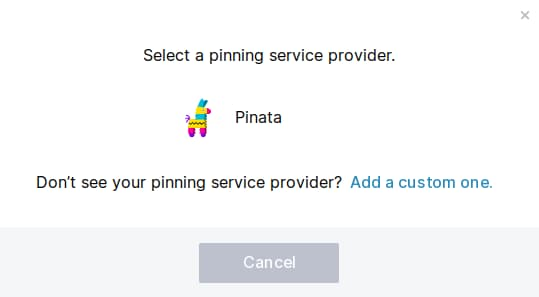
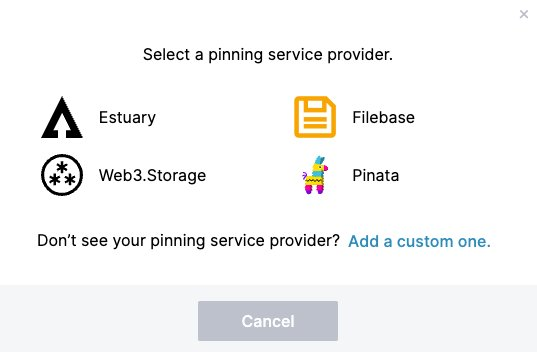
Enhancements to the IPFS Pinning Services Documentation (#1638)

diff --git a/docs/how-to/work-with-pinning-services.md b/docs/how-to/work-with-pinning-services.md
@@ -15,11 +15,19 @@ If you've got just one local IPFS node that's always running, local pinning may 
 - You don't have all the disk space you need on your local node.
 - You run more than one IPFS node, and would like to use one of them as a "personal pinning service" as your preferred location for permanent storage.
 
-There are a number of commercial pinning services that make it easy for you to purchase pinning capacity for your important files, some of which include Pinata, Temporal, Crust, Infura, and others. Each of these third-party services has its own unique interface for pinning files and managing those pins; this could include a GUI, an API, CLI commands, or other tooling.
+Third-party pinning services allow you to purchase pinning capacity for important data. Each service has its own approach to pinning data and managing pins, so users should do their research to ensure that the service meets their particular needs. Service providers include, but are not limited to:
+
+- [Pinata](https://pinata.cloud/)
+- [Filebase](https://filebase.com/)
+- [Temporal](https://temporal.cloud/)
+- [Crust](https://crust.network/)
+- [Infura](https://infura.io/)
 
 However, you don't need to learn new commands or tools if your pinning service of choice supports the vendor-agnostic [IPFS Pinning Service API](https://ipfs.github.io/pinning-services-api-spec/) specification. Those services are supported within IPFS itself through the command line: `ipfs pin remote --help`.
 
-As of January 2021, [Pinata](https://pinata.cloud/) supports the [IPFS Pinning Service API endpoint](https://pinata.cloud/documentation#PinningServicesAPI), with more pinning services on the way! [Learn how to create your own →](#create-your-own-pinning-service)
+As of June 2023, [Filebase](https://filebase.com) and [Pinata](https://pinata.cloud/) support the [IPFS Pinning Service API endpoint](https://github.com/ipfs/pinning-services-api-spec).
+
+You can also [create your own pinning service](#create-your-own-pinning-service).
 
 ## Use an existing pinning service
 
@@ -53,11 +61,22 @@ In the next screen, you’ll be asked for a few other details:
 - A **nickname** for this service. This can be helpful if, for example, you want to add two accounts from the same service.
 - The URL for your service's **API endpoint**.
   _Note: This field only appears if you've selected a custom pinning service!_
-- Your **secret access token**. This is the unique token provided to you by the pinning service — check its documentation for more info.
-  _To illustrate, example below shows which value should be copied from [pinata.cloud/keys](https://pinata.cloud/keys)_
-  > ![Pinata secret access token](./images/work-with-pinning-services/add-service-pinata-token.jpg)
+- You **secret access token**: The unique token provided to you by the pinning service — see the specific pinning service documentation for more info.
 
-After you hit **Save**, you’ll see your new pinning service added to the **Pinning Services** section of your **Settings** screen.
+##### Pinata example
+
+Consider the following example, which illustrates which values from [pinata.cloud/keys] are copied into the Pinata pinning service UI:
+
+![Pinata secret access token](./images/work-with-pinning-services/add-service-pinata-token.jpg)
+
+##### Filebase example
+
+Consider the following example, which demostrates the process for Filebase using
+[console.filebase.com/keys](https://console.filebase.com/keys).
+
+![Filebase secret access token](./images/work-with-pinning-services/add-service-filebase-token.png)
+
+After you click **Save**, your new pinning service is added to the **Pinning Services** section of your **Settings** screen.
 
 > ![Desktop/Web UI Settings screen with a new pinning service added](./images/work-with-pinning-services/added-service.jpg)
 
@@ -129,3 +148,4 @@ You may also wish to read continuing details on how the API is evolving in the [
 :::
 
 If you'd like to make your custom pinning service available to every IPFS user, we welcome your submissions. Once you're ready to open the doors to the public, make a PR against the [IPFS Web UI GitHub repo](https://github.com/ipfs-shipyard/ipfs-webui) in order to add it to the default list of pinning services that are displayed in the Desktop/Web UI Settings screen, and one of the core maintainers will be in touch.
+
